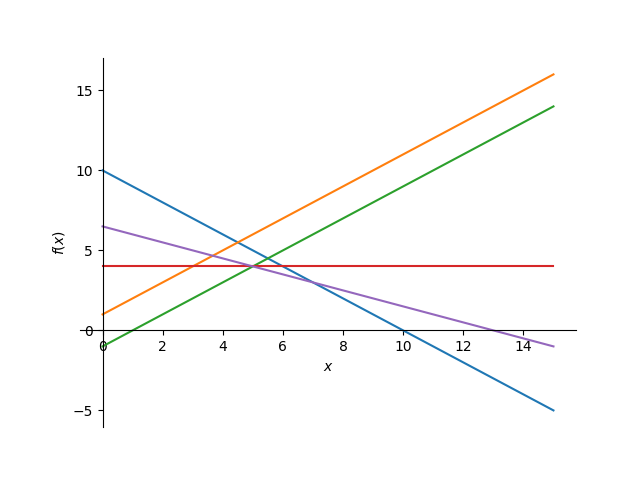
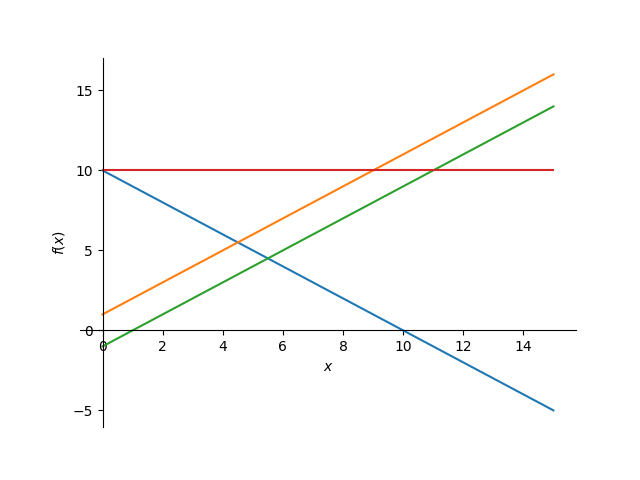
commit

diff --git a/ejercicio2/var_4.py b/ejercicio2/var_4.py
@@ -1,0 +1,25 @@
+
+# Importar el módulo SymPy
+import sympy as sym
+from sympy import symbols
+from sympy.plotting import plot
+#ponemos las funciones de las restricciones, siendo f la diversion y x el estudio
+f1 = "10-x" #<=
+f2 = "1+x"
+f3 = "x-1"
+#y=4
+f4 = "10" #<=
+#las z son las funciones objetivo, despejamos la diversion y damos los valores que queramos a la z
+
+#en este caso, la f es el estudio y la x la diversion, para poder poner la condicion 4
+Z1 = "(10-2*x)"
+
+
+
+x = symbols('x')
+#esto se pone asi siempre, 0 y 15 es el intervalo en el que queramos que se plotee
+p = plot(f1, f2, f3, f4, Z1, (x, 0, 15))
+
+p.save('ejercicio2/dibujos/dibujo_general.png')
+
+# d = 10

diff --git a/ejercicio2/var_3.py b/ejercicio2/var_3.py
@@ -1,0 +1,21 @@
+#Variante general
+
+# Importar el módulo SymPy
+import sympy as sym
+from sympy import symbols
+from sympy.plotting import plot
+#ponemos las funciones de las restricciones, siendo f la diversion y x el estudio
+f1 = "10-x" #<=
+f2 = "1+x"
+f3 = "x-1"
+f4= "0"
+#las z son las funciones objetivo, despejamos la diversion y damos los valores que queramos a la z
+Z1 = "(10-x)/2"
+
+
+x = symbols('x')
+#esto se pone asi siempre, 0 y 15 es el intervalo en el que queramos que se plotee
+p = plot(f1, f2, f3, f4, Z1, (x, 0, 15))
+
+p.save('ejercicio2/dibujos/dibujo_3.png')
+#10 horas estudiando
